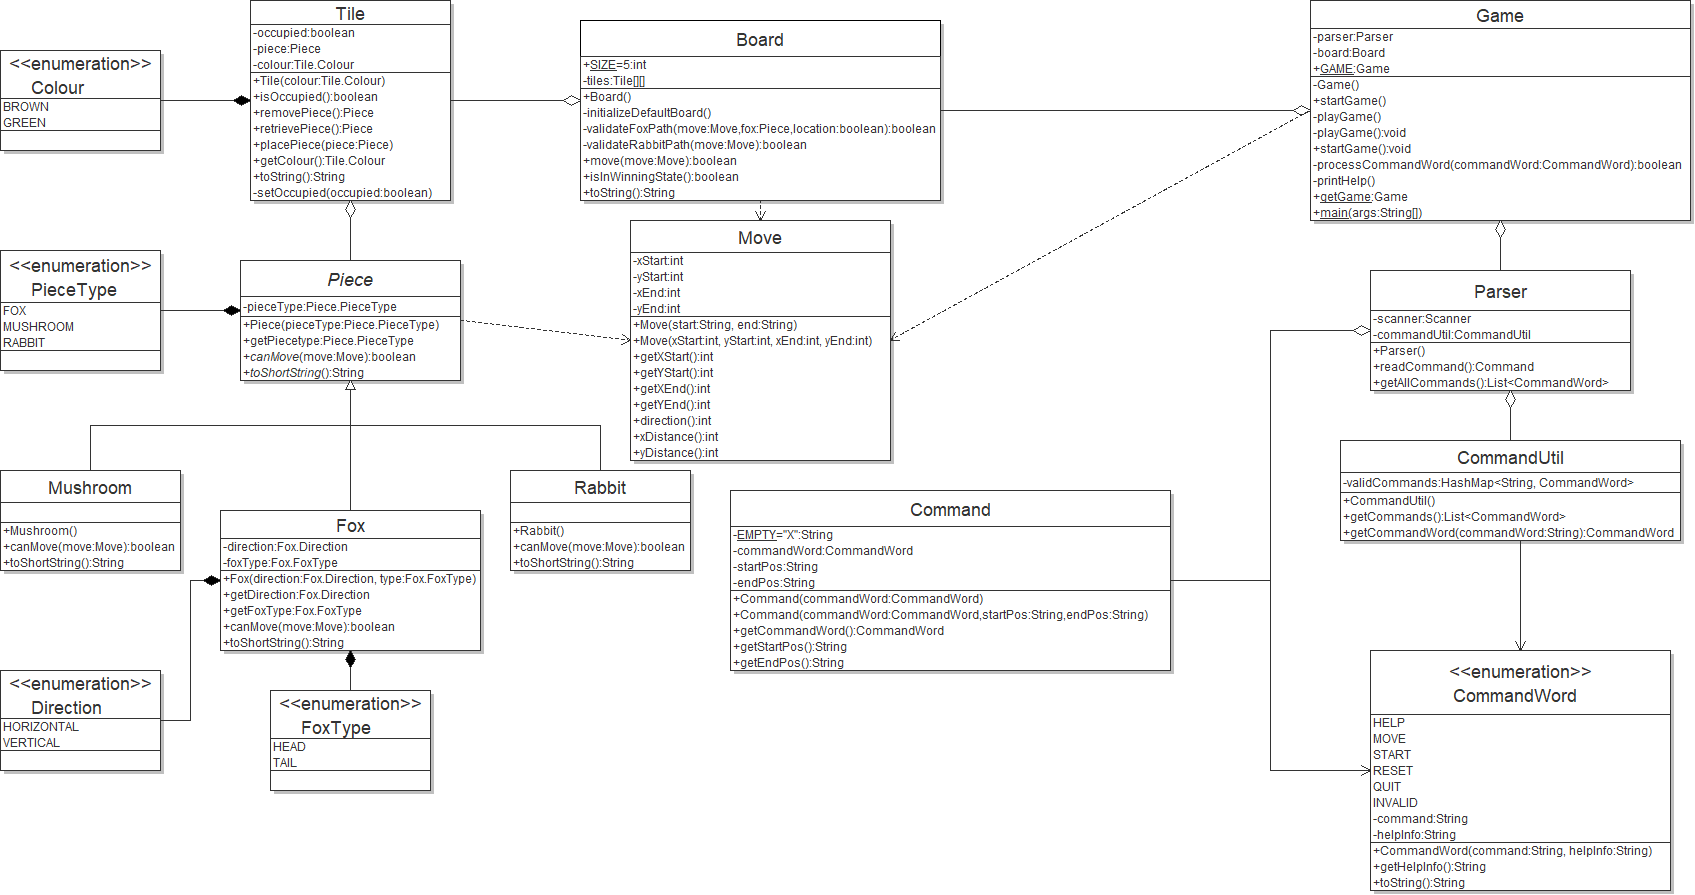
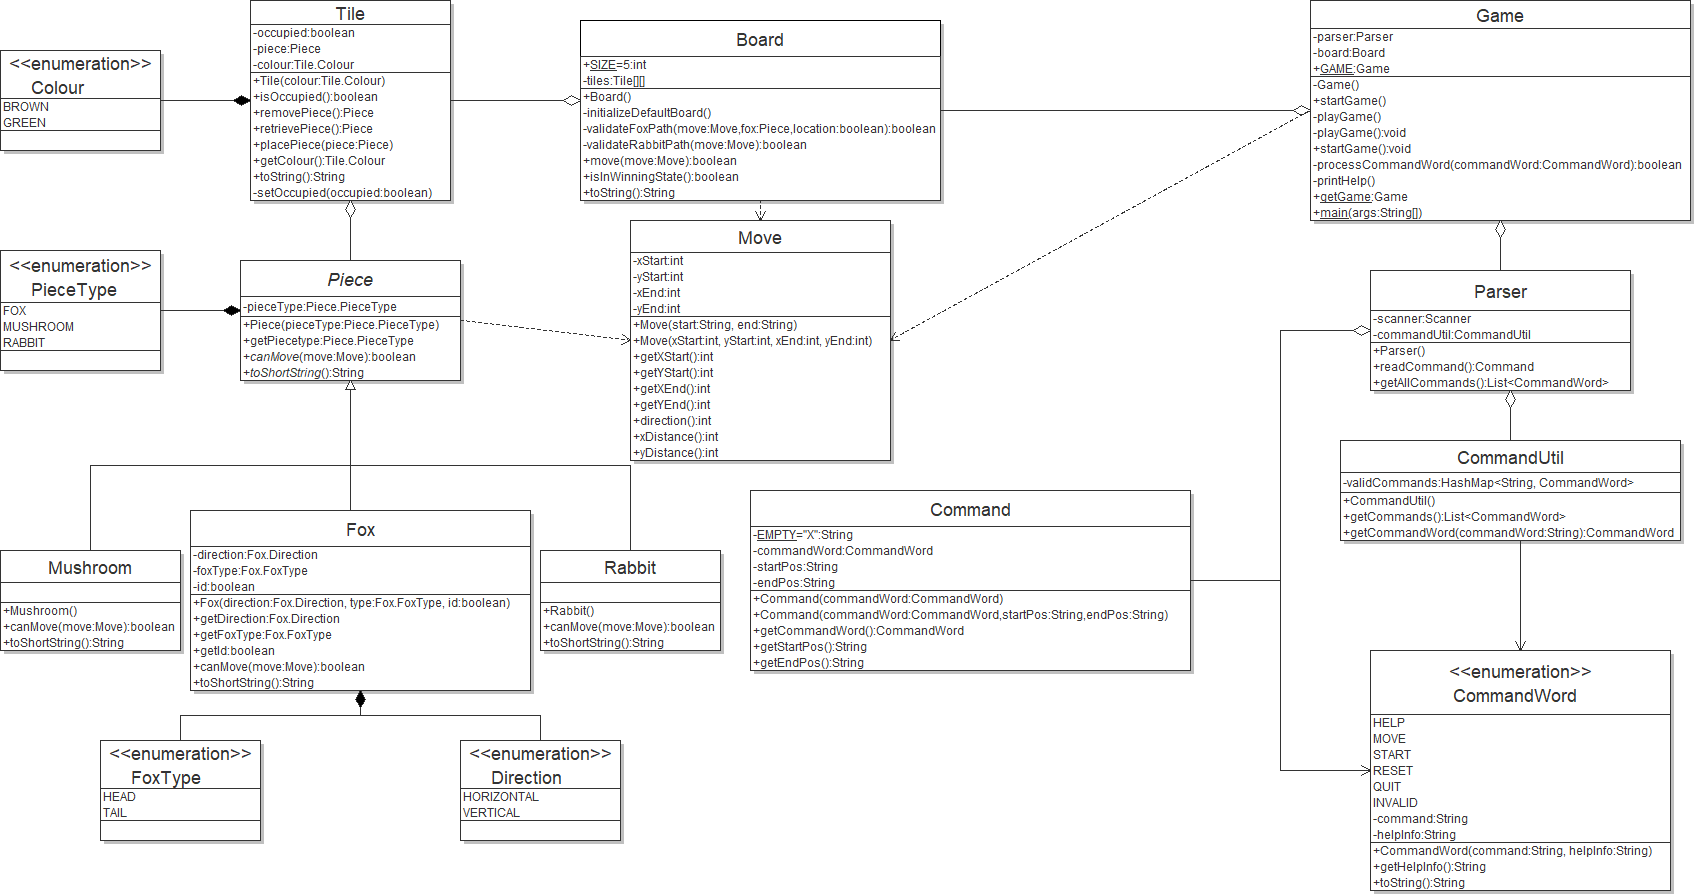
Add fox id field + bug elimination

Changed region(s): [[0.0, 0.5128, 0.7056, 0.9654], [0.5215, 0.543, 0.5829, 0.5732], [0.3375, 0.5128, 0.3681, 0.5732]]

diff --git a/src/main/java/model/Board.java b/src/main/java/model/Board.java
@@ -61,10 +61,10 @@ public class Board {
 		tiles[4][2].placePiece(new Rabbit());
 
 		// Adding the foxes (there can be 0 to 2, here we have 2)
-		tiles[3][3].placePiece(new Fox(Fox.FoxType.HEAD, Fox.Direction.HORIZONTAL));
-		tiles[4][3].placePiece(new Fox(Fox.FoxType.TAIL, Fox.Direction.HORIZONTAL));
-		tiles[1][0].placePiece(new Fox(Fox.FoxType.HEAD, Fox.Direction.VERTICAL));
-		tiles[1][1].placePiece(new Fox(Fox.FoxType.TAIL, Fox.Direction.VERTICAL));
+		tiles[3][3].placePiece(new Fox(Fox.FoxType.HEAD, Fox.Direction.HORIZONTAL, false));
+		tiles[4][3].placePiece(new Fox(Fox.FoxType.TAIL, Fox.Direction.HORIZONTAL, false));
+		tiles[1][0].placePiece(new Fox(Fox.FoxType.HEAD, Fox.Direction.VERTICAL, true));
+		tiles[1][1].placePiece(new Fox(Fox.FoxType.TAIL, Fox.Direction.VERTICAL, true));
 	}
 
 	/**
@@ -101,9 +101,9 @@ public class Board {
 				} else if (xStart + 1 > 4) {										   													 	 // Must be to the left
 					location = false;
 				} else {															   													     // Could be either, we need to check both
-					if ((tiles[xStart - 1][yStart].retrievePiece() != null) && (tiles[xStart - 1][yStart].retrievePiece() instanceof Fox)) { // Check to the left
+					if ((tiles[xStart - 1][yStart].retrievePiece() != null) && (tiles[xStart - 1][yStart].retrievePiece() instanceof Fox) && ((((Fox)tiles[xStart - 1][yStart].retrievePiece()).getId()) == ((Fox)piece).getId())) { 		 // Check to the left
 						location = false;
-					} else { 																											     // Must be to the right
+					} else if ((tiles[xStart + 1][yStart].retrievePiece() != null) && (tiles[xStart + 1][yStart].retrievePiece() instanceof Fox) && ((((Fox)tiles[xStart + 1][yStart].retrievePiece()).getId()) == ((Fox)piece).getId())) {  // Must be to the right
 						location = true;
 					}
 				}
@@ -134,9 +134,9 @@ public class Board {
 				} else if (yStart + 1 > 4) { 																								 // Must be above			
 					location = true;
 				} else {																													 // Could be either, we need to check both.
-					if ((tiles[xStart][yStart - 1].retrievePiece() != null) && (tiles[xStart][yStart - 1].retrievePiece() instanceof Fox)) { // Check above
+					if ((tiles[xStart][yStart - 1].retrievePiece() != null) && (tiles[xStart][yStart - 1].retrievePiece() instanceof Fox) && ((((Fox)tiles[xStart][yStart - 1].retrievePiece()).getId()) == ((Fox)piece).getId())) { // Check above
 						location = true;
-					} else {																												 // Must be below										
+					} else if ((tiles[xStart][yStart + 1].retrievePiece() != null) && (tiles[xStart][yStart + 1].retrievePiece() instanceof Fox) && ((((Fox)tiles[xStart][yStart + 1].retrievePiece()).getId()) == ((Fox)piece).getId())){																												 // Must be below										
 						location = false;
 					}
 				}
@@ -221,7 +221,7 @@ public class Board {
 						return false;
 					}
 				}
-			} else if (location && xDistance < 0) {																// The other part of the fox is to the right and we are moving left}
+			} else if (location && xDistance < 0) {																// The other part of the fox is to the right and we are moving left
 				for (int i = xStart - 1; i >= xEnd; i--) {														// Need to make sure there are no obstacles in the path
 					if (tiles[i][yStart].isOccupied()) {
 						return false;
@@ -237,8 +237,6 @@ public class Board {
 				if (xEnd - 1 < 0) {																				// Check to see if the move will push the fox out of bounds
 					return false;
 				}
-				System.out.println(xStart - 2);
-				System.out.println(xEnd - 1);
 				for (int i = xStart - 2; i >= xEnd - 1; i--) {
 					if (tiles[i][yStart].isOccupied()) {
 						return false;
@@ -250,7 +248,7 @@ public class Board {
 		
 		if ((((Fox) fox).getDirection().equals(Fox.Direction.VERTICAL)) && direction == 1) {  					// Check to see if the fox is vertical and the move is vertical
 			if (location && yDistance > 0) {																	// The other part of the fox is up and we are moving down
-				for (int i = yStart + 1; i < yEnd; i++) {														// Need to make sure there are no obstacles in the path
+				for (int i = yStart + 1; i <= yEnd; i++) {														// Need to make sure there are no obstacles in the path
 					if (tiles[xStart][i].isOccupied()) {														
 						return false;
 					}
@@ -268,7 +266,7 @@ public class Board {
 				if (yEnd + 1 > 4) {																				// Check to see if the move will push the fox out of bounds
 					return false;
 				}
-				for (int i = yStart + 2; i <= yEnd; i++) {														// Need to make sure there are no obstacles in the path
+				for (int i = yStart + 2; i <= yEnd + 1; i++) {														// Need to make sure there are no obstacles in the path
 					if (tiles[xStart][i].isOccupied()) {
 						return false;
 					}

diff --git a/src/main/java/model/Fox.java b/src/main/java/model/Fox.java
@@ -8,6 +8,7 @@ package model;
 public class Fox extends Piece {
 	private Direction direction;
 	private FoxType foxType;
+	private boolean id;
 
 	/**
 	 * An enumeration representing the head and tail of the fox
@@ -28,11 +29,13 @@ public class Fox extends Piece {
 	 * 
 	 * @param foxType The fox type of the fox, as a FoxType
 	 * @param direction The direction given for the Fox
+	 * @param id The id of the fox, used to differentiate different foxes
 	 */
-	public Fox(FoxType foxType, Direction direction) {
+	public Fox(FoxType foxType, Direction direction, boolean id) {
 		super(PieceType.FOX);
 		this.foxType = foxType;
 		this.direction = direction;
+		this.id = id;
 	}
 	
 	/**
@@ -47,6 +50,13 @@ public class Fox extends Piece {
 	 */
 	public FoxType getFoxType() {
 		return foxType;
+	}
+	
+	/**
+	 * @return The id of this fox.
+	 */
+	public boolean getId() {
+		return id;
 	}
 
 	@Override
